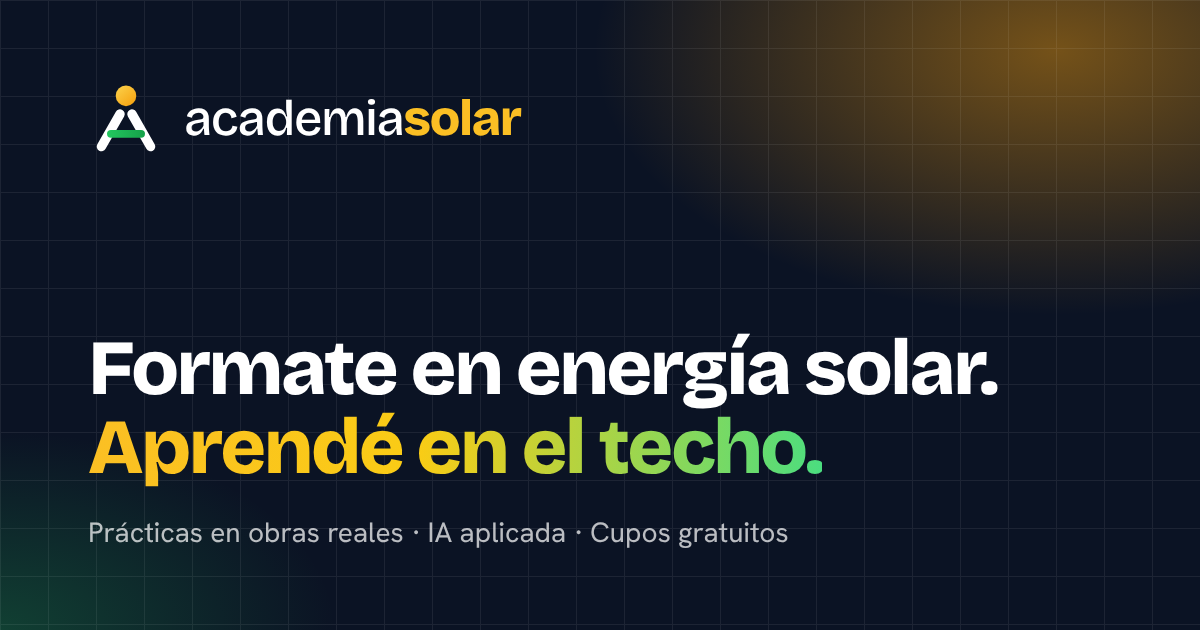
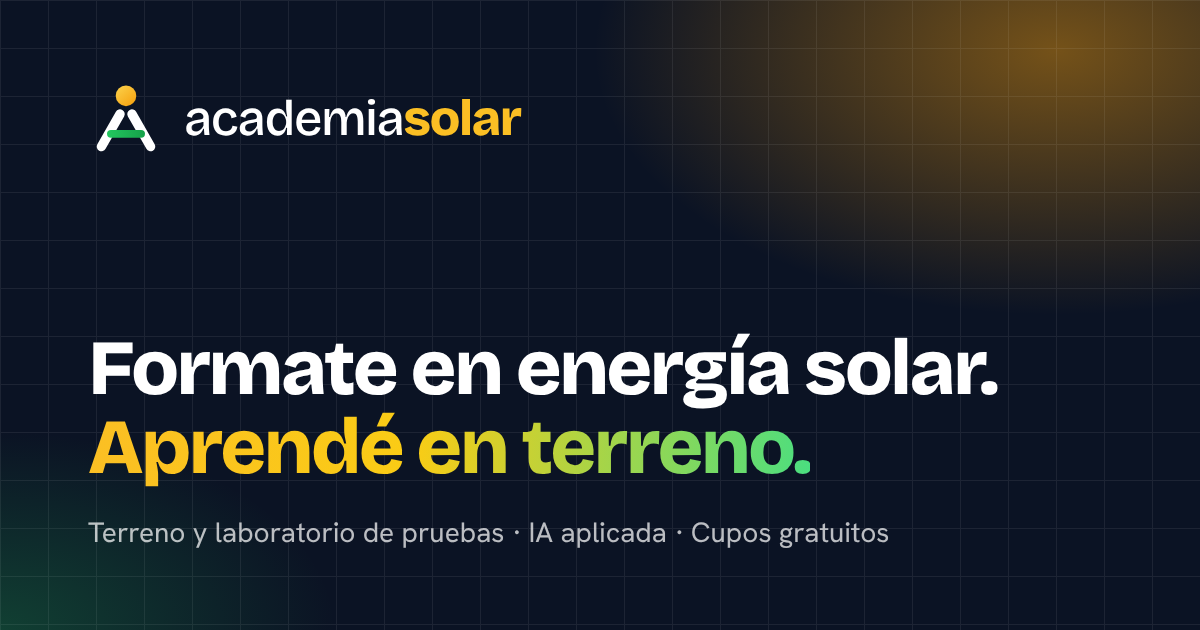
Reemplaza obras reales y techo por terreno y laboratorios de pruebas
- Hero, método, cómo funciona, beneficios, respaldo, FAQ y footer
  hablan de práctica en terreno y en laboratorios de pruebas
- Sección Respaldo: laboratorios, jornadas en terreno y docentes;
  se quita el link al mapa de instalaciones de esa sección
- Cursos Instalador, Diplomatura y Agro, metadata y textos del blog
- Imagen OG: "Aprendé en terreno"
- llms.txt, llms-full.txt, AGENTS.md y README alineados
- Se mantienen las clases técnicas sobre montaje en techos

Claude-Session: https://claude.ai/code/session_01XaEqGRPibKLanKjoymw7Kd

Changed region(s): [[0.0617, 0.8143, 0.74, 0.8746], [0.4317, 0.6635, 0.7092, 0.754]]

diff --git a/app/cursos/instalador-solar/page.tsx b/app/cursos/instalador-solar/page.tsx
@@ -3,11 +3,11 @@ import type { Metadata } from "next"
 
 export const metadata: Metadata = {
   title: "Curso Instalador Solar Certificado Argentina | Academia Solar - SolarPower",
-  description: "Convertite en instalador solar profesional con el curso más completo de Argentina. Prácticas reales en instalaciones de SolarPower, certificación CAIM incluida. Cupos gratuitos disponibles. 12 semanas híbrido.",
+  description: "Convertite en instalador solar profesional con el curso más completo de Argentina. Práctica en terreno y en laboratorio, certificación CAIM incluida. Cupos gratuitos disponibles. 12 semanas híbrido.",
   keywords: "curso instalador solar, instalador paneles solares argentina, certificacion CAIM, capacitacion instalacion solar, curso energia solar presencial",
   openGraph: {
     title: "Curso Instalador Solar Certificado | Academia Solar",
-    description: "12 semanas de formación con prácticas reales en obra. Certificación CAIM incluida.",
+    description: "12 semanas de formación con práctica en terreno y laboratorio. Certificación CAIM incluida.",
     images: ["/images/course-installer.jpg"],
   },
 }
@@ -18,8 +18,8 @@ export default function InstaladorSolarPage() {
       slug="instalador-solar"
       title="Instalador Solar Certificado"
       subtitle="El programa más completo del mercado argentino"
-      description="Convertite en instalador solar profesional con prácticas en instalaciones reales de SolarPower. Salí con experiencia en obra real y acceso directo a la red de instaladores más grande de Argentina."
-      longDescription="El programa de Instalador Solar Certificado combina clases online con prácticas presenciales en instalaciones reales de SolarPower. A diferencia de cursos puramente teóricos, nuestros alumnos salen con experiencia en obra real y acceso directo a la red de instaladores más grande de Argentina. Incluye certificación ante CAIM, comunidad privada de graduados y material descargable."
+      description="Convertite en instalador solar profesional con práctica en terreno y en nuestros laboratorios de pruebas. Salí con experiencia práctica y acceso directo a la red de instaladores más grande de Argentina."
+      longDescription="El programa de Instalador Solar Certificado combina clases online con prácticas presenciales en terreno y en nuestros laboratorios de pruebas. A diferencia de cursos puramente teóricos, nuestros alumnos salen con experiencia práctica y acceso directo a la red de instaladores más grande de Argentina. Incluye certificación ante CAIM, comunidad privada de graduados y material descargable."
       duration="12 semanas"
       modality="Híbrido (online + presencial)"
       level="Principiante"
@@ -32,7 +32,7 @@ export default function InstaladorSolarPage() {
         "Certificarte ante CAIM",
         "Calcular y dimensionar sistemas fotovoltaicos",
         "Realizar mantenimiento preventivo y correctivo",
-        "2 jornadas de práctica presencial en instalaciones reales",
+        "2 jornadas de práctica presencial en terreno y laboratorio",
       ]}
       requirements={[
         "Conocimientos básicos de electricidad",
@@ -68,7 +68,7 @@ export default function InstaladorSolarPage() {
         },
         {
           title: "Instalación Práctica",
-          description: "Procedimientos, seguridad y trabajo en obra",
+          description: "Procedimientos, seguridad y trabajo en terreno",
           lessons: [
             "Seguridad eléctrica en instalaciones fotovoltaicas (35 min)",
             "Lectura de planos y diagramas unifilares (40 min)",

diff --git a/components/hero.tsx b/components/hero.tsx
@@ -3,13 +3,13 @@
 import { useState, useEffect } from "react"
 import Link from "next/link"
 import Image from "next/image"
-import { ArrowRight, Check, Cpu, HardHat } from "lucide-react"
+import { ArrowRight, Check, Cpu, FlaskConical } from "lucide-react"
 import { Button } from "@/components/ui/button"
 import { Eyebrow } from "@/components/brand/section"
 
 const roles = ["Instalador", "Diseñador", "Vendedor", "Analista"]
 
-const proofs = ["Cupos gratuitos", "Prácticas en obras reales", "IA en todos los cursos"]
+const proofs = ["Cupos gratuitos", "Práctica en terreno y laboratorio", "IA en todos los cursos"]
 
 export function Hero() {
   const [currentRole, setCurrentRole] = useState(0)
@@ -64,8 +64,8 @@ export function Hero() {
           </h1>
 
           <p className="mt-6 max-w-xl text-lg leading-relaxed text-white/75 sm:text-xl">
-            Argentina necesita miles de profesionales solares. Te formamos con prácticas en obras reales
-            de SolarPower, herramientas de IA y acceso a la red de trabajo del sector.
+            Argentina necesita miles de profesionales solares. Te formamos con práctica en terreno y en nuestros
+            laboratorios de pruebas, herramientas de IA y acceso a la red de trabajo del sector.
           </p>
 
           <div className="mt-8 flex flex-col gap-3 sm:flex-row">
@@ -98,7 +98,7 @@ export function Hero() {
           <div className="relative aspect-[4/5] overflow-hidden rounded-[2rem] ring-1 ring-white/15 sm:aspect-[5/6]">
             <Image
               src="/images/hero-solar-installation.jpg"
-              alt="Equipo instalando paneles solares sobre un techo en Buenos Aires"
+              alt="Equipo de SolarPower instalando paneles solares en Buenos Aires"
               fill
               priority
               sizes="(max-width: 1024px) 90vw, 45vw"
@@ -106,19 +106,19 @@ export function Hero() {
             />
             <div className="absolute inset-0 bg-gradient-to-t from-ink-950/70 via-transparent to-transparent" />
             <div className="absolute inset-x-4 bottom-4 sm:inset-x-5 sm:bottom-5">
-              <p className="font-display text-lg font-bold leading-tight sm:text-xl">No aprendés en un aula.</p>
-              <p className="font-display text-lg font-bold leading-tight text-sol-300 sm:text-xl">Aprendés en el techo.</p>
+              <p className="font-display text-lg font-bold leading-tight sm:text-xl">No aprendés solo en un aula.</p>
+              <p className="font-display text-lg font-bold leading-tight text-sol-300 sm:text-xl">Practicás en terreno.</p>
             </div>
           </div>
 
           <div className="absolute -left-3 top-8 flex items-center gap-3 rounded-2xl bg-white px-4 py-3 text-ink-950 shadow-2xl sm:-left-8">
             <span className="flex h-9 w-9 items-center justify-center rounded-xl bg-sol-100">
-              <HardHat className="h-5 w-5 text-sol-700" />
+              <FlaskConical className="h-5 w-5 text-sol-700" />
             </span>
             <span className="text-sm font-semibold leading-tight">
-              Práctica en
+              Laboratorio
               <br />
-              obra real
+              de pruebas
             </span>
           </div>
           <div className="absolute -right-3 top-1/2 flex items-center gap-3 rounded-2xl bg-white px-4 py-3 text-ink-950 shadow-2xl sm:-right-6">

diff --git a/components/backing.tsx b/components/backing.tsx
@@ -1,25 +1,22 @@
-import Link from "next/link"
 import Image from "next/image"
-import { ArrowUpRight, Building2, HardHat, MapPinned } from "lucide-react"
+import { Building2, FlaskConical, MapPinned } from "lucide-react"
 import { Eyebrow } from "@/components/brand/section"
 
 const facts = [
   {
-    icon: HardHat,
-    title: "Obras activas para practicar",
-    text: "Las prácticas se hacen en instalaciones reales de SolarPower, no en maquetas ni simuladores.",
+    icon: FlaskConical,
+    title: "Laboratorios de pruebas",
+    text: "Practicás con paneles, inversores y baterías en nuestros laboratorios, no en simuladores.",
+  },
+  {
+    icon: MapPinned,
+    title: "Jornadas en terreno",
+    text: "Salís a terreno con supervisión de instaladores experimentados para aplicar lo que aprendiste.",
   },
   {
     icon: Building2,
     title: "Docentes que trabajan en el sector",
-    text: "Las clases las da el equipo de SolarPower Argentina: gente que diseña, vende e instala todos los días.",
-  },
-  {
-    icon: MapPinned,
-    title: "Instalaciones que podés ver",
-    text: "Conocé dónde trabaja SolarPower en el mapa público de instalaciones.",
-    href: "https://www.solarpower.com.ar/mapa-instalaciones",
-    cta: "Ver mapa de instalaciones",
+    text: "Las clases las da el equipo de SolarPower Argentina: gente que diseña, vende e instala sistemas solares.",
   },
 ]
 
@@ -49,11 +46,11 @@ export function Backing() {
           <div className="order-1 lg:order-2">
             <Eyebrow>Respaldo real</Eyebrow>
             <h2 className="mt-3 text-[2rem] font-bold leading-[1.08] text-ink-950 sm:text-4xl lg:text-[3.25rem]">
-              Detrás de la academia hay una empresa que instala todos los días
+              Detrás de la academia hay una empresa solar de verdad
             </h2>
             <p className="mt-4 text-lg leading-relaxed text-ink-700">
-              Academia Solar es la unidad de formación de SolarPower Argentina. Lo que enseñamos es lo que
-              hacemos en cada obra.
+              Academia Solar es la unidad de formación de SolarPower Argentina. Lo que enseñamos sale de la
+              experiencia de cada proyecto que diseñamos e instalamos.
             </p>
 
             <ul className="mt-8 grid gap-5">
@@ -65,17 +62,6 @@ export function Backing() {
                   <div>
                     <h3 className="text-lg font-bold text-ink-950">{fact.title}</h3>
                     <p className="mt-1 text-ink-700">{fact.text}</p>
-                    {fact.href && (
-                      <Link
-                        href={fact.href}
-                        target="_blank"
-                        rel="noopener noreferrer"
-                        className="mt-2 inline-flex items-center gap-1 font-semibold text-verde-700 underline-offset-4 hover:underline"
-                      >
-                        {fact.cta}
-                        <ArrowUpRight className="h-4 w-4" />
-                      </Link>
-                    )}
                   </div>
                 </li>
               ))}

diff --git a/app/cursos/diplomatura-integral/page.tsx b/app/cursos/diplomatura-integral/page.tsx
@@ -3,7 +3,7 @@ import type { Metadata } from "next"
 
 export const metadata: Metadata = {
   title: "Diplomatura Integral Energía Solar Argentina | Academia Solar - SolarPower",
-  description: "El programa más completo del mercado argentino. Formación 360 en instalación, diseño y ventas de energía solar. 6 meses, 4 jornadas presenciales, proyecto en obra real. Cupos gratuitos disponibles.",
+  description: "El programa más completo del mercado argentino. Formación 360 en instalación, diseño y ventas de energía solar. 6 meses, 4 jornadas presenciales, proyecto final en terreno. Cupos gratuitos disponibles.",
   keywords: "diplomatura energia solar, formacion completa energia solar argentina, carrera energia solar, profesional solar certificado, mejor curso energia solar",
   openGraph: {
     title: "Diplomatura Integral en Energía Solar | Academia Solar",
@@ -19,7 +19,7 @@ export default function DiplomaturaIntegralPage() {
       title="Diplomatura Integral en Energía Solar"
       subtitle="El perfil más completo y cotizado del sector"
       description="El programa más completo de Academia Solar. Formación 360 grados que combina instalación, diseño y ventas para convertirte en el profesional más cotizado del mercado solar argentino."
-      longDescription="La Diplomatura Integral está diseñada para quienes quieren dominar todos los aspectos de la industria solar: desde la instalación física hasta el diseño técnico y la comercialización. Al completarla, sos el perfil más completo y cotizado del sector. Incluye los 3 tracks completos, 4 jornadas presenciales, proyecto final en obra real, y mentoria 1:1 con el equipo directivo de SolarPower."
+      longDescription="La Diplomatura Integral está diseñada para quienes quieren dominar todos los aspectos de la industria solar: desde la instalación física hasta el diseño técnico y la comercialización. Al completarla, sos el perfil más completo y cotizado del sector. Incluye los 3 tracks completos, 4 jornadas presenciales, proyecto final en terreno, y mentoria 1:1 con el equipo directivo de SolarPower."
       duration="6 meses"
       modality="Híbrido (online + presencial)"
       level="Intermedio"
@@ -78,7 +78,7 @@ export default function DiplomaturaIntegralPage() {
             "Selección de proyecto real con cliente SolarPower",
             "Diseño técnico completo del sistema",
             "Propuesta comercial profesional",
-            "Instalación supervisada en obra",
+            "Instalación supervisada en terreno",
             "Presentación final y defensa ante jurado",
             "Entrega de Diploma de Honor Academia Solar",
           ],

diff --git a/components/faq.tsx b/components/faq.tsx
@@ -10,7 +10,7 @@ const faqs = [
   {
     question: "¿Qué diferencia a Academia Solar de otros cursos de energía solar?",
     answer:
-      "Tres cosas: prácticas en instalaciones reales de SolarPower con clientes finales (no simulaciones), acceso a la red de instaladores y vendedores de SolarPower, y módulos de inteligencia artificial aplicada al trabajo solar en todos los cursos.",
+      "Tres cosas: práctica en terreno y en nuestros laboratorios de pruebas con equipos reales (no simulaciones), acceso a la red de instaladores y vendedores de SolarPower, y módulos de inteligencia artificial aplicada al trabajo solar en todos los cursos.",
   },
   {
     question: "¿Necesito conocimientos previos?",
@@ -18,9 +18,9 @@ const faqs = [
       "Para Instalador Solar recomendamos tener nociones básicas de electricidad. Si no las tenés, podés hacer antes el curso de Electricidad Básica para Solar (4 semanas, online). Analista Solar y Vendedor Solar no requieren conocimientos técnicos previos.",
   },
   {
-    question: "¿Cómo funcionan las prácticas en instalaciones reales?",
+    question: "¿Cómo funcionan las prácticas?",
     answer:
-      "Se realizan en obras activas de SolarPower, con supervisión de instaladores experimentados. Participás en proyectos residenciales y comerciales reales, desde el relevamiento hasta la puesta en marcha, y sumás experiencia comprobable para tu CV.",
+      "Combinan nuestros laboratorios de pruebas, donde trabajás con paneles, inversores y baterías, con jornadas en terreno supervisadas por instaladores experimentados. Recorrés todo el proceso, desde el relevamiento hasta la puesta en marcha, y sumás experiencia comprobable para tu CV.",
   },
   {
     question: "¿Qué pasa si no apruebo el examen de certificación?",

diff --git a/components/why-choose.tsx b/components/why-choose.tsx
@@ -1,12 +1,12 @@
 import Image from "next/image"
-import { Cpu, HardHat, Network } from "lucide-react"
+import { Cpu, FlaskConical, Network } from "lucide-react"
 import { SectionHeader } from "@/components/brand/section"
 
 const pillars = [
   {
-    icon: HardHat,
-    title: "Práctica en obras reales",
-    text: "Trabajás en instalaciones activas de SolarPower, con clientes reales y supervisión de instaladores experimentados.",
+    icon: FlaskConical,
+    title: "Laboratorio y terreno",
+    text: "Practicás con paneles, inversores y baterías en nuestros laboratorios de pruebas y salís a terreno con supervisión de instaladores experimentados.",
     color: "bg-sol-100 text-sol-700",
   },
   {
@@ -34,13 +34,13 @@ export function WhyChoose() {
               <>
                 Teoría online.
                 <br />
-                <span className="text-sol-600">Oficio en el techo.</span>
+                <span className="text-sol-600">Práctica en terreno.</span>
               </>
             }
           />
           <p className="text-lg leading-relaxed text-ink-700 lg:pb-2">
-            La diferencia es simple: además de estudiar, salís a instalar paneles de verdad. Aprendés el
-            oficio como se aprende en serio, al lado de quienes lo hacen todos los días.
+            La diferencia es simple: además de estudiar, ponés las manos en los equipos. Practicás en
+            nuestros laboratorios de pruebas y en terreno, al lado de quienes hacen esto todos los días.
           </p>
         </div>
 

diff --git a/app/marca/page.tsx b/app/marca/page.tsx
@@ -26,7 +26,7 @@ const colors = [
 const principles = [
   {
     title: "Práctico antes que pretencioso",
-    text: "Hablamos como alguien que está arriba del techo: claro, directo y con voseo argentino.",
+    text: "Hablamos como alguien que trabaja en terreno: claro, directo y con voseo argentino.",
   },
   {
     title: "Honesto siempre",
@@ -144,7 +144,7 @@ export default function MarcaPage() {
             <div className="rounded-3xl bg-white p-7 ring-1 ring-ink-950/8">
               <p className="text-sm font-semibold text-sol-700">Títulos y logo</p>
               <p className="mt-3 font-display text-5xl font-extrabold tracking-tight text-ink-950">Bricolage Grotesque</p>
-              <p className="mt-4 font-display text-2xl text-ink-700">Aa Bb Cc 0123 — Aprendé en el techo.</p>
+              <p className="mt-4 font-display text-2xl text-ink-700">Aa Bb Cc 0123 — Aprendé en terreno.</p>
             </div>
             <div className="rounded-3xl bg-white p-7 ring-1 ring-ink-950/8">
               <p className="text-sm font-semibold text-sol-700">Textos e interfaz · fuente propia</p>

diff --git a/components/course-page.tsx b/components/course-page.tsx
@@ -11,7 +11,7 @@ import {
   Clock,
   Cpu,
   Gift,
-  HardHat,
+  FlaskConical,
   MessageCircle,
   PlayCircle,
   Users,
@@ -48,7 +48,7 @@ interface CoursePageProps {
 
 const includes = [
   { icon: Award, label: "Certificado" },
-  { icon: HardHat, label: "Casos reales" },
+  { icon: FlaskConical, label: "Laboratorio" },
   { icon: Cpu, label: "Módulo de IA" },
   { icon: Users, label: "Red SolarPower" },
 ]
@@ -161,9 +161,9 @@ export function CoursePage({
             <div className="absolute -bottom-5 -left-6 flex items-center gap-3 rounded-2xl bg-white px-4 py-3 text-ink-950 shadow-2xl">
               <LogoMark className="h-9 w-9" />
               <span className="text-sm font-semibold leading-tight">
-                Formación con
+                Terreno y
                 <br />
-                práctica real
+                laboratorio
               </span>
             </div>
           </div>

diff --git a/app/layout.tsx b/app/layout.tsx
@@ -36,7 +36,7 @@ export const viewport: Viewport = {
 export const metadata: Metadata = {
   title: 'Academia Solar | Cursos de Energía Solar en Argentina',
   description:
-    'Formación profesional en energía solar con prácticas reales en obras de SolarPower Argentina. Cursos de Instalador Solar, Analista Solar, Vendedor Solar y Diplomatura Integral. Cupos gratuitos disponibles.',
+    'Formación profesional en energía solar con práctica en terreno y en los laboratorios de pruebas de SolarPower Argentina. Cursos de Instalador Solar, Analista Solar, Vendedor Solar y Diplomatura Integral. Cupos gratuitos disponibles.',
   keywords:
     'cursos energia solar argentina, instalador solar certificado, capacitacion paneles solares, formacion energia renovable, cursos gratis energia solar, empleo energia solar, solarpower argentina, academia solar',
   authors: [{ name: 'Academia Solar', url: SITE_URL }],

diff --git a/app/blog/[slug]/page.tsx b/app/blog/[slug]/page.tsx
@@ -220,7 +220,7 @@ export default async function BlogPostPage({
               <LogoMark tone="light" className="mx-auto h-12 w-12" />
               <h2 className="mt-4 text-2xl font-extrabold sm:text-3xl">¿Te interesa formarte en energía solar?</h2>
               <p className="mx-auto mt-3 max-w-xl text-white/75">
-                Conocé nuestros cursos con prácticas reales en instalaciones de SolarPower Argentina.
+                Conocé nuestros cursos con práctica en terreno y en nuestros laboratorios de pruebas.
               </p>
               <Button asChild variant="sol" size="xl" className="mt-6 w-full sm:w-auto">
                 <Link href="/cursos/introduccion">

diff --git a/components/benefits.tsx b/components/benefits.tsx
@@ -36,7 +36,7 @@ export function Benefits() {
               Más que un curso: <span className="text-sol-600">una puerta al sector</span>
             </>
           }
-          lead="Somos parte de SolarPower Argentina. Eso se traduce en obras reales para practicar, tecnología actual y contactos de trabajo."
+          lead="Somos parte de SolarPower Argentina. Eso se traduce en laboratorios de pruebas para practicar, salidas a terreno, tecnología actual y contactos de trabajo."
         />
 
         <div className="mt-12 grid gap-4 lg:auto-rows-fr sm:mt-14 sm:grid-cols-2 lg:grid-cols-3">

diff --git a/components/footer.tsx b/components/footer.tsx
@@ -48,7 +48,7 @@ export function Footer() {
               <Logo tone="light" />
             </Link>
             <p className="mt-5 max-w-sm text-white/65">
-              Escuela de energía solar de SolarPower Argentina. Formación con prácticas en obras reales, IA
+              Escuela de energía solar de SolarPower Argentina. Formación con práctica en terreno y laboratorio, IA
               aplicada y conexión con el sector.
             </p>
             <div className="mt-6 space-y-1.5 text-sm">
